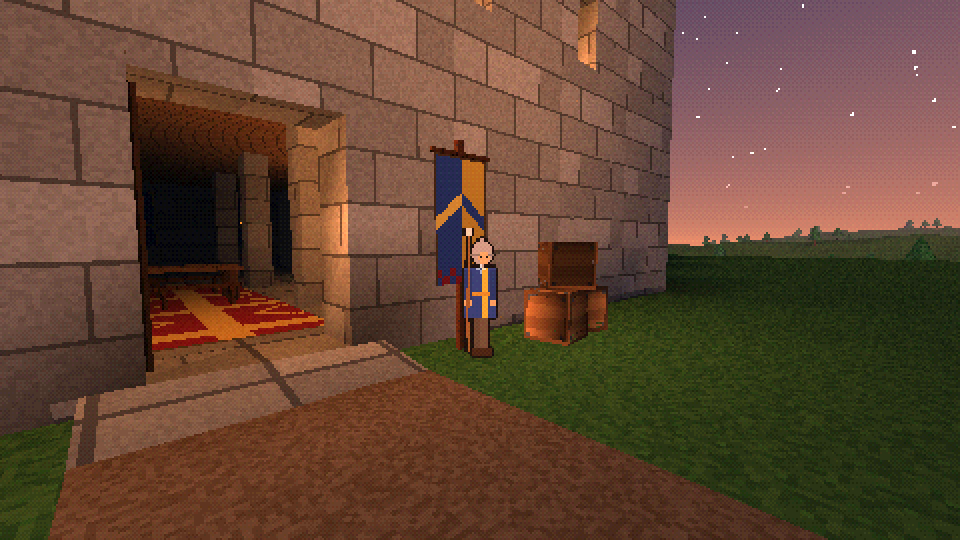
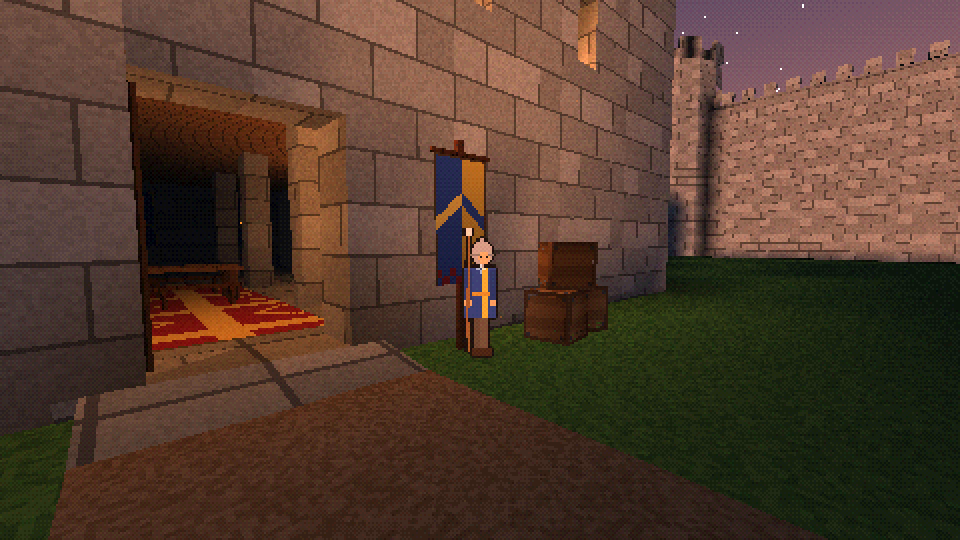
OpenSpec change add-harrowmark-and-story; fresh screenshots and README gallery
- openspec/changes/add-harrowmark-and-story: proposal, design, the castle-content and
  storytelling specs and the checked tasks with their tests; tests/README.md links all eight
  new scenarios.
- Golden references updated for the guards' new posts and the castellan's orders.
- docs/screenshots: the tour with Harrowmark (outer ward, wall-walk, Raven Tower view, inner
  ward, King's Gate), the new front-end menu and credits, the prologue and two conversations.

Claude-Session: https://claude.ai/code/session_01AgAfDhvoMY4m1shVyzS9he

diff --git a/README.md b/README.md
@@ -25,9 +25,10 @@ of them. The look is retro 3D: low-poly models, sprites and voxels.
 
 | | | |
 |---|---|---|
-| ![Great hall](docs/screenshots/12_hall_benches_braziers.png) | ![Forge](docs/screenshots/05_forge.png) | ![Stairs](docs/screenshots/06_stairs.png) |
-| ![Keep door](docs/screenshots/10_door_guard.png) | ![War table](docs/screenshots/08_war_table_illusion.png) | ![Battlements](docs/screenshots/09_battlements.png) |
-| ![Front-end menu](docs/screenshots/13_front_end_menu.png) | ![Touch controls](docs/screenshots/16_touch_controls.png) | ![Developer console](docs/screenshots/17_developer_console.png) |
+| ![Harrowmark from the road](docs/screenshots/02_harrowmark_from_afar.png) | ![The King's Gate](docs/screenshots/22_kings_gate.png) | ![The Outer Ward and the Lion Gate](docs/screenshots/18_outer_ward.png) |
+| ![On the wall-walk](docs/screenshots/19_wall_walk.png) | ![From the Raven Tower](docs/screenshots/20_raven_tower_view.png) | ![The Inner Ward and the Great Keep](docs/screenshots/21_inner_ward.png) |
+| ![The prologue](docs/screenshots/23_prologue.png) | ![The castellan](docs/screenshots/25_the_castellan.png) | ![The war table](docs/screenshots/08_war_table_illusion.png) |
+| ![Great hall](docs/screenshots/12_hall_benches_braziers.png) | ![Forge](docs/screenshots/05_forge.png) | ![Front-end menu](docs/screenshots/13_front_end_menu.png) |
 
 ## Read this first
 
@@ -35,7 +36,7 @@ of them. The look is retro 3D: low-poly models, sprites and voxels.
 |---|---|
 | 🎯 **Concept** | [`docs/concept/`](docs/concept/README.md): pitch, pillars, the commander, command and control, scale, units, economy, setting, art, controls, modding, roadmap, open questions, story |
 | 🏗 **Architecture** | [`docs/architecture/`](docs/architecture/README.md): engine and script split, simulation, rendering, data and Lua API, quality and build |
-| 📐 **Specs** | [`openspec/`](openspec/): spec-driven development with [OpenSpec](https://github.com/Fission-AI/OpenSpec). The first change: [`add-engine-foundation`](openspec/changes/add-engine-foundation/proposal.md) |
+| 📐 **Specs** | [`openspec/`](openspec/): spec-driven development with [OpenSpec](https://github.com/Fission-AI/OpenSpec). Changes: [`add-engine-foundation`](openspec/changes/add-engine-foundation/proposal.md) (M1) and [`add-harrowmark-and-story`](openspec/changes/add-harrowmark-and-story/proposal.md) (the castle, the story and the title) |
 | ❓ **Open questions** | [`docs/concept/13-open-questions.md`](docs/concept/13-open-questions.md) |
 
 ## Key facts

diff --git a/openspec/changes/add-harrowmark-and-story/proposal.md b/openspec/changes/add-harrowmark-and-story/proposal.md
@@ -1,0 +1,43 @@
+# Proposal: Harrowmark, a story and a title ("Banner & Bastion")
+
+## Why
+
+The engine foundation (M1) ends with a test map whose keep is the only building. The concept
+promises realistically huge fortresses that can be walked through, and a war told through the
+commander's eyes, but the game had neither a real castle nor a story, and its working title
+("1stPRTS") said nothing to players. Building one great castle now proves that the engine,
+the brushes and the collision scale up to M2's fortresses, and it gives the story a place.
+
+## What Changes
+
+- The game is called **Banner & Bastion** ("War through a commander's eyes"). "1stPRTS" stays
+  the codename for the repository, executable, file names and C prefix.
+- The Proving Ground becomes **Harrowmark**, a concentric castle around the existing keep: an
+  inner curtain (15 m) with six towers, the 36 m Raven Tower and the Lion Gate; an outer curtain
+  (10 m) with fifteen towers and the King's Gate; wall-walks with battlements, stairs up the walls,
+  towers that can be entered at ground and wall-walk height, working portcullises, halls in both
+  wards and a garrison.
+- A written story (`docs/concept/15-story.md`) told in first person in the game: a prologue in
+  subtitles when a map is started from the menu, people who talk when used, and written orders on
+  the hall's notice board.
+- Engine additions: hollow round walls (towers) as a scene shape, boxes that only the use ray
+  hits, a separate script budget for data files loaded by a running script, and the window title
+  read from the base pack's manifest.
+
+Engine (C): the tube shape, use-only boxes, the data-file script budget, the window title.
+Scripts and data (Lua, assets): the castle building blocks (`lib/castle.lua`), the portcullis,
+the map, the subtitles, dialogue, prologue, options and all text.
+
+## Impact
+
+- Windows, Linux, macOS, web desktop: the larger map loads and runs; CI runs the castle and story
+  scenarios headless on every desktop platform and the smoke set in the browser.
+- Mobile web: talking uses the same `use` action (the touch overlay's use button and taps).
+- WebXR: talking and the portcullis winch work with the controller pointer (use ray).
+- Specs: new capabilities `castle-content` and `storytelling`.
+
+## Out of scope
+
+- Siege, damage and capture of the castle (M3/M4), moats and drawbridges, tunnels.
+- Voice acting and lip sync; branching dialogue; quests.
+- Renaming the repository, the executable or the code prefix.

diff --git a/tests/README.md b/tests/README.md
@@ -126,3 +126,11 @@ is missing. References are C unit tests (`suite.case`), test files and scripts (
 | xr-presentation | Pulling the lift lever | `tests/game/scenarios/xr_lift_lever.lua`, `xr.recorded_frames_pull_the_lift_lever` (a recorded pose fixture, `engine/tests/fixtures/xr/lever_pull.txt`), `xr.controllers_drive_actions_by_hand`, `commander.xr_pointer_ray_uses_things_but_not_through_walls`, `tests/game/determinism/xr_walk.lua` |
 | xr-presentation | Teleport movement | `tests/game/scenarios/xr_teleport.lua`, `commander.xr_teleport_to_reachable_floor_only`, `web/tests/xr.test.js` (the setting saved in the user area, the mocked headset's stick and ray) |
 | xr-presentation | Comfort defaults | `tests/game/scenarios/xr_comfort.lua` (also the vignette, snap and smooth turning, the menu button), `web/tests/xr.test.js`, `data/base/scripts/tests/test_xr.lua` |
+| castle-content | Approaching the castle | `tests/golden/golden.lua` (approach views of Harrowmark from the road), `tests/game/scenarios/castle_gate.lua` (walks in through the King's Gate), `tests/game/scenarios/walk_speed.lua` (starts on the road) |
+| castle-content | Onto the wall-walk and into a tower | `tests/game/scenarios/castle_walls.lua`, `data/base/scripts/tests/test_castle.lua` |
+| castle-content | To the top of the great tower | `tests/game/scenarios/raven_tower.lua`, `shapes.towers_face_out_and_in_with_open_sides` |
+| castle-content | Closing the gate | `tests/game/scenarios/castle_gate.lua`, `data/base/scripts/tests/test_castle.lua` (portcullis states) |
+| storytelling | Front-end menu | `tests/game/scenarios/front_end_menu.lua`, `data/base/scripts/tests/test_story.lua` (title, map name) |
+| storytelling | Starting Harrowmark from the menu | `tests/game/scenarios/story_prologue.lua`, `data/base/scripts/tests/test_story.lua` (prologue only from the menu, option) |
+| storytelling | Talking to a guard | `tests/game/scenarios/npc_talk.lua`, `data/base/scripts/tests/test_story.lua`, `collide.use_boxes_stop_only_the_use_ray` |
+| storytelling | Reading the board | `tests/golden/golden.lua` (notice_board: the orders drawn on the board's surface), `data/base/scripts/tests/test_story.lua` (the board's text fits) |

diff --git a/openspec/changes/add-harrowmark-and-story/tasks.md b/openspec/changes/add-harrowmark-and-story/tasks.md
@@ -1,0 +1,15 @@
+# Tasks: Harrowmark, a story and a title
+
+## 1. Castle
+
+- [x] 1.1 Add hollow round walls (tube) to the scene with open sides and closed edges; verify unit tests that every face looks the right way (`shapes.towers_face_out_and_in_with_open_sides`, also `shapes.wedges_face_outwards_in_every_direction`)
+- [x] 1.2 Write the castle building blocks in Lua (battlements, curtain walls with wall-walks, round towers with doors, floors and an optional spiral stair, wall rings, gatehouses, wall stairs, halls) and the portcullis; verify Lua unit tests (`scripts/tests/test_castle.lua`)
+- [x] 1.3 Build Harrowmark around the keep (inner and outer ward, Raven Tower, Lion Gate, King's Gate, halls, garrison, banners) and move the start before the King's Gate; verify the scenarios `castle_walls.lua`, `castle_gate.lua` and `raven_tower.lua` (spec *Onto the wall-walk and into a tower*, *To the top of the great tower*, *Closing the gate*, *Approaching the castle*)
+- [x] 1.4 Update the tour, the golden images and the screenshots; verify `render_golden` and `render_golden_catches_fog_change` pass with the new references
+
+## 2. Story and title
+
+- [x] 2.1 Rename the game to "Banner & Bastion" in every player-facing place (window title from `mod.lua`, menu, web page, credits, README and concept); verify `scripts/tests/test_story.lua` and the menu scenario (spec *Front-end menu*)
+- [x] 2.2 Write `docs/concept/15-story.md` (premise, places, cast, campaign acts, other factions' view, storytelling rules)
+- [x] 2.3 Add HUD subtitles, the prologue (menu starts only, with an option to turn it off), people who talk and the castellan's orders; verify `test_story.lua`, `story_prologue.lua` and `npc_talk.lua` (spec *Starting Harrowmark from the menu*, *Talking to a guard*, *Reading the board*)
+- [x] 2.4 Add use-only boxes and a separate script budget for data files; verify `collide.use_boxes_stop_only_the_use_ray` and `script.data_gets_its_own_budget_inside_a_long_script`

diff --git a/openspec/changes/add-harrowmark-and-story/design.md b/openspec/changes/add-harrowmark-and-story/design.md
@@ -1,0 +1,30 @@
+# Design: Harrowmark, a story and a title
+
+## Building blocks in Lua, one new shape in C
+Castles are assembled by `data/base/scripts/lib/castle.lua` from boxes, ramps, spiral stairs and
+one new scene shape, the **tube** (a hollow round wall with open sides). Round towers are bands
+of tubes cut at door heights; their collision is a ring of boxes around each side (two per side),
+which leaves the inside free and keeps every query a box query (design D8 of the engine change).
+`C.curtain_ring` places the walls of a ward between its towers and gates and works out each
+tower's doors (from the ward on the ground, from every wall that meets it at wall-walk height).
+
+## Scale and cost
+Harrowmark adds about 4,000 collision boxes and 150,000 vertices. Static boxes are in the BVH, so
+movement and the baked lighting stay fast; boot time with baking is a few seconds on software GL.
+Cells and portals are not used for the castle's towers (everything outside the keep is in the
+"outside" cell); the 64-cell limit stays free for interiors that need culling.
+
+## Story in first person
+Text is shown as HUD subtitles (`ui/subtitles.lua`), timed in ticks so runs stay deterministic.
+People are made usable with use-only boxes, which only the use ray and the XR pointer hit, so they
+never block movement or cast baked shadows. Dialogue lives in `story/harrowmark.lua`.
+
+## Title and codename
+Player-facing text uses "Banner & Bastion"; the window title is read from the base pack's
+`mod.lua` (`title`), so a mod or a later rename changes no C code. Technical names (repository,
+executable, `prts_` prefix, user-data folder) keep the codename "1stPRTS" to avoid churn and to
+keep players' saved settings.
+
+## Script budget for data files
+A data file (such as a sprite sheet) loaded while a long script runs gets its own instruction
+budget; before, it inherited the caller's count, and the larger castle build crossed the limit.

diff --git a/openspec/changes/add-harrowmark-and-story/specs/castle-content/spec.md b/openspec/changes/add-harrowmark-and-story/specs/castle-content/spec.md
@@ -1,0 +1,34 @@
+# Spec Delta
+
+## Purpose
+
+Great castles in the base game that the commander can walk through: curtain walls with
+wall-walks, towers, gatehouses and the buildings of the wards, built from reusable building
+blocks defined in Lua.
+
+## ADDED Requirements
+
+### Requirement: Concentric castle
+The Proving Ground SHALL be Harrowmark, a concentric castle around the Great Keep with an inner and an outer curtain wall, towers along both, a gatehouse in each curtain, a great tower taller than the keep, and buildings in both wards.
+
+#### Scenario: Approaching the castle
+- **WHEN** a new Proving Ground session starts
+- **THEN** the commander stands on the road before the outer gatehouse with the curtain walls and towers in view
+
+### Requirement: Walkable walls and towers
+Every curtain wall SHALL have a wall-walk with battlements on its outer edge, reachable from the ward by a stair, and the towers on the walls SHALL be enterable from the ward at ground level and from the wall-walks at wall-walk height. The great tower SHALL have a stair from its ground floor to its roof.
+
+#### Scenario: Onto the wall-walk and into a tower
+- **WHEN** the commander climbs a wall stair, steps onto the wall-walk and walks along it to a tower
+- **THEN** they enter the tower on its floor at wall-walk height
+
+#### Scenario: To the top of the great tower
+- **WHEN** the commander enters the Raven Tower and follows its spiral stair upward
+- **THEN** they reach the roof 36 m above the ward
+
+### Requirement: Gatehouse portcullis
+Each gatehouse SHALL have a portcullis that blocks its passage when lowered and is raised and lowered with a winch that the commander can use.
+
+#### Scenario: Closing the gate
+- **WHEN** the commander uses the King's Gate winch while the portcullis is up, and later walks at the gate from outside
+- **THEN** the portcullis comes down and the commander cannot pass until it is raised again

diff --git a/openspec/changes/add-harrowmark-and-story/specs/storytelling/spec.md b/openspec/changes/add-harrowmark-and-story/specs/storytelling/spec.md
@@ -1,0 +1,36 @@
+# Spec Delta
+
+## Purpose
+
+The game's title and its story, told only in first person: what the commander hears, reads and
+sees, never through cutscenes from outside their eyes.
+
+## ADDED Requirements
+
+### Requirement: Game title
+The game SHALL present itself as "Banner & Bastion" with the subtitle "War through a commander's eyes" in the window title, the front-end menu, the web page and the credits.
+
+#### Scenario: Front-end menu
+- **WHEN** the game starts with a window and shows the front-end menu
+- **THEN** the menu shows the title "Banner & Bastion" and lists the map as "Harrowmark"
+
+### Requirement: Prologue
+A map started from the front-end menu SHALL begin with a short spoken prologue shown as subtitles, timed in simulation ticks; it SHALL be possible to turn it off in the options, and maps started directly (tests, the command line) SHALL NOT play it.
+
+#### Scenario: Starting Harrowmark from the menu
+- **WHEN** the player chooses Harrowmark in the front-end menu
+- **THEN** the first prologue line appears as a subtitle with its speaker's name
+
+### Requirement: People talk
+People in the world SHALL be usable: looking at one within reach SHALL show a prompt with their name, and using them SHALL show their next line as a subtitle, cycling through their lines.
+
+#### Scenario: Talking to a guard
+- **WHEN** the commander looks at the door guard and presses use
+- **THEN** a subtitle shows the guard's name and title and their first line
+
+### Requirement: Written orders
+The great hall's notice board SHALL show the castellan's current orders as in-world text on the board.
+
+#### Scenario: Reading the board
+- **WHEN** the commander looks at the notice board in the great hall
+- **THEN** the castellan's orders are drawn on the board's face

diff --git a/docs/screenshots/README.md b/docs/screenshots/README.md
@@ -1,6 +1,7 @@
 # Screenshots
 
-`01`–`12` are taken with `tests/game/scenarios/tour.lua` at 960×540 (OpenGL 3.3 core on Mesa
+`01`–`12` and `18`–`22` (Harrowmark: the outer ward, the wall-walk, the view from the Raven
+Tower, the inner ward and the King's Gate) are taken with `tests/game/scenarios/tour.lua` at 960×540 (OpenGL 3.3 core on Mesa
 llvmpipe under Xvfb, retro preset 270 lines):
 
 ```sh
@@ -10,6 +11,10 @@ xvfb-run -a ./build/dev/bin/1stprts --size 960x540 --scenario tests/game/scenari
 `13`–`17` show the user interface at 1280×720: the front-end menu, the video options, the
 Credits screen, the touch controls (phone browsers) and the developer console with the
 labeled observer camera (developer builds only).
+
+`23`–`25` show the story told in first person: the prologue's subtitles on the road to the
+King's Gate, talking to a gate guard, and the castellan in the great hall with his orders on
+the notice board.
 
 These images show Banner & Bastion art and are licensed under CC BY 4.0 like the rest of the
 art (see `LICENSING.md`). Credit: "Banner & Bastion screenshot" by The Banner & Bastion
